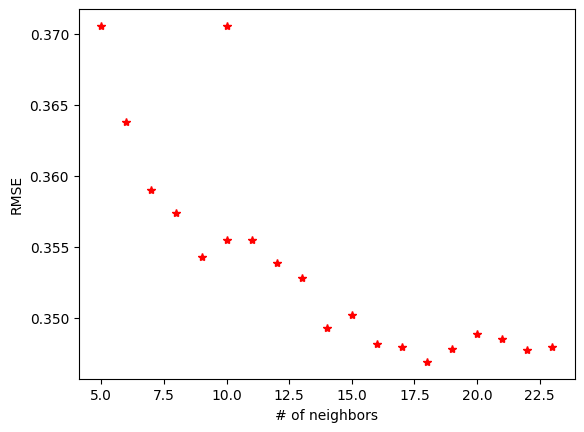
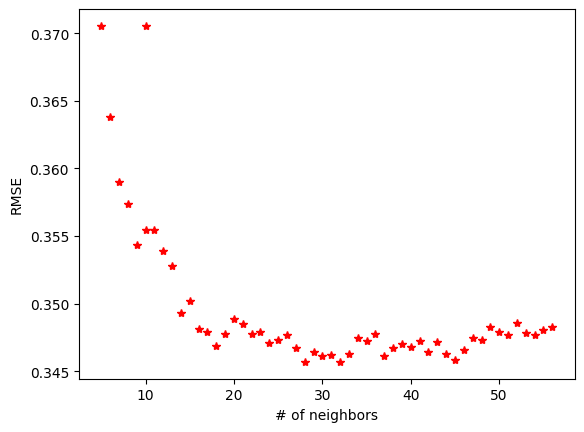
changed knn choice n

diff --git a/src/plotting.py b/src/plotting.py
@@ -55,9 +55,11 @@ def plot_helper2(data_ys, predicted_ys, model_name='Unknown'):
 
     bins = np.arange(0, 6, 0.1)
     sns.distplot(data_ys, bins=bins, hist=True, kde=True, ax=ax1, color='r', axlabel='Sales')
-    ax1.set_title('Actual Sales')
+    ax1.set_title('Actual Sales -- Density Plot')
+    ax1.set_xlim(0, 2)
     sns.distplot(predicted_ys, bins=bins, hist=True, kde=True, ax=ax2, color='b', axlabel='Sales')
-    ax2.set_title('Predicted Sales')
+    ax2.set_title('Predicted Sales -- Density Plot')
+    ax2.set_xlim(0, 2)
 
     pic_path = 'graphs/{0}_hist.png'.format(model_name.replace(' ', '_').lower())
     pic_dir = get_dir(pic_path)

diff --git a/src/models.py b/src/models.py
@@ -37,7 +37,7 @@ def knn(xs, ys, n=10):
     ns = [n]
     rmses = [best_rmse]
     ### You can change 5 to * 2 or * 3 here for a better result, but slower.
-    for n in range(i, int(np.sqrt(num_cols)) + 5):
+    for n in range(i, int(np.sqrt(num_cols)) * 3):
         model = KNeighborsRegressor(n_neighbors=n, algorithm='kd_tree').fit(X_train, Y_train)
         temp = rmse(X_test, Y_test, model)
         ns.append(n)
